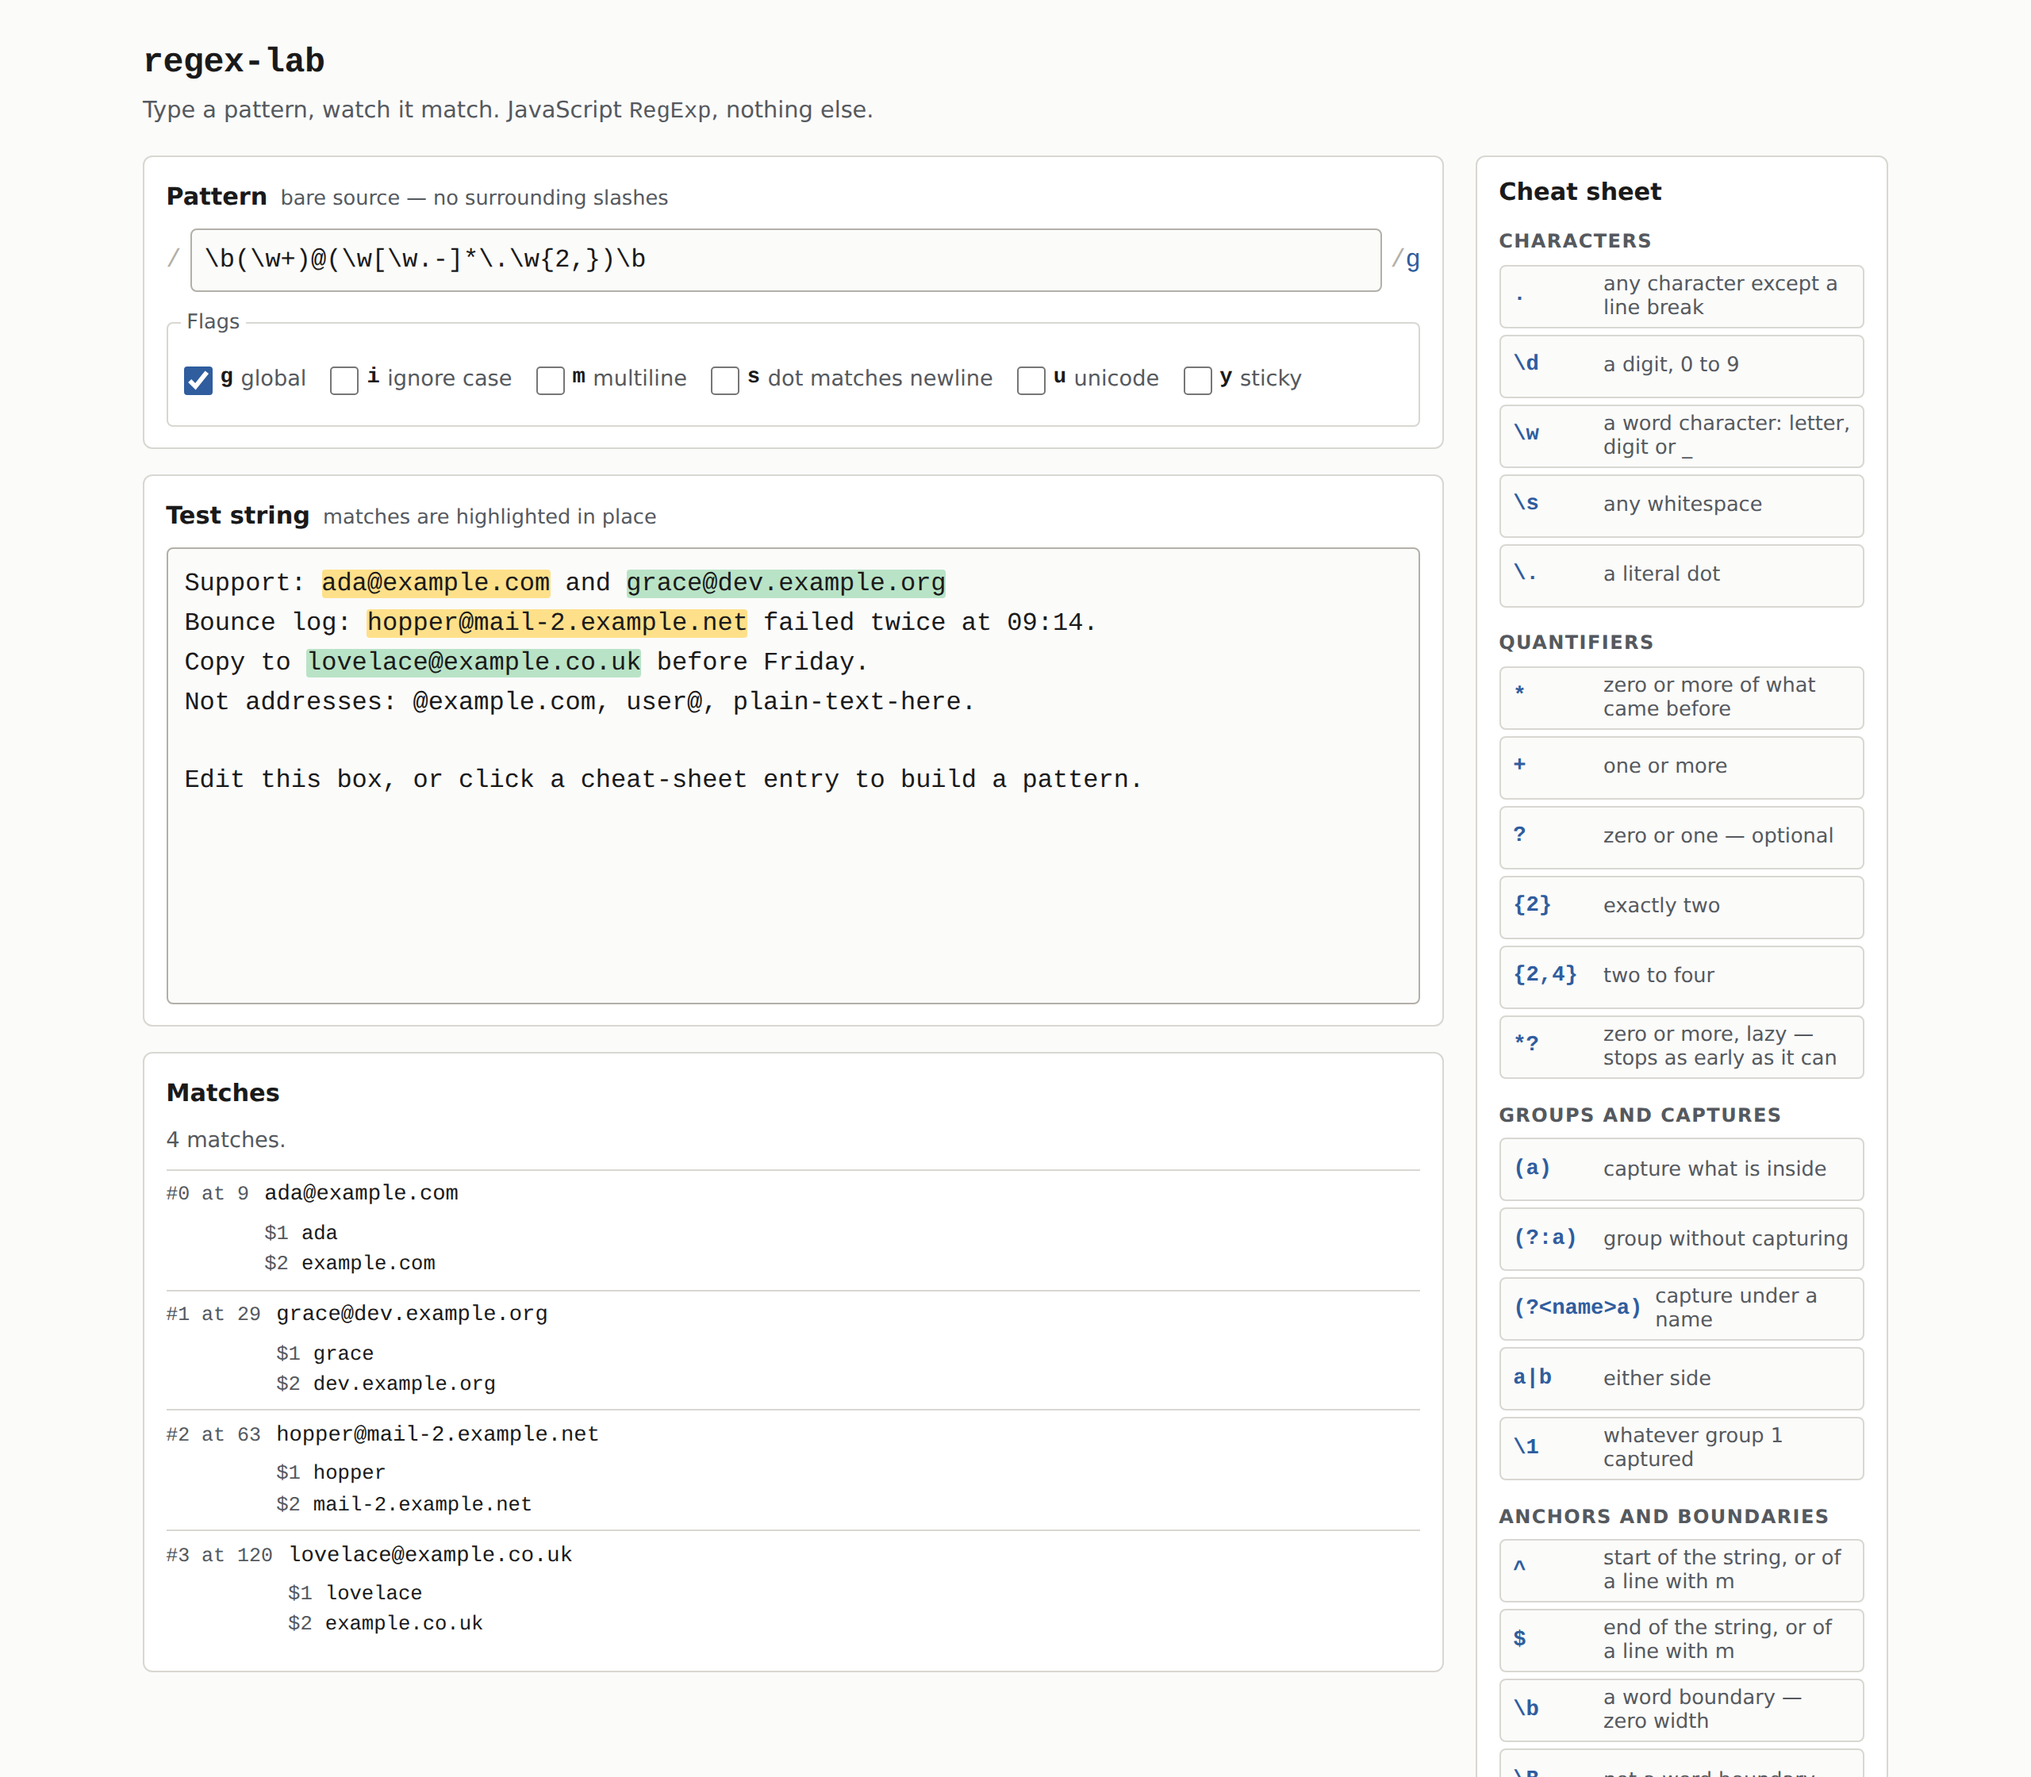
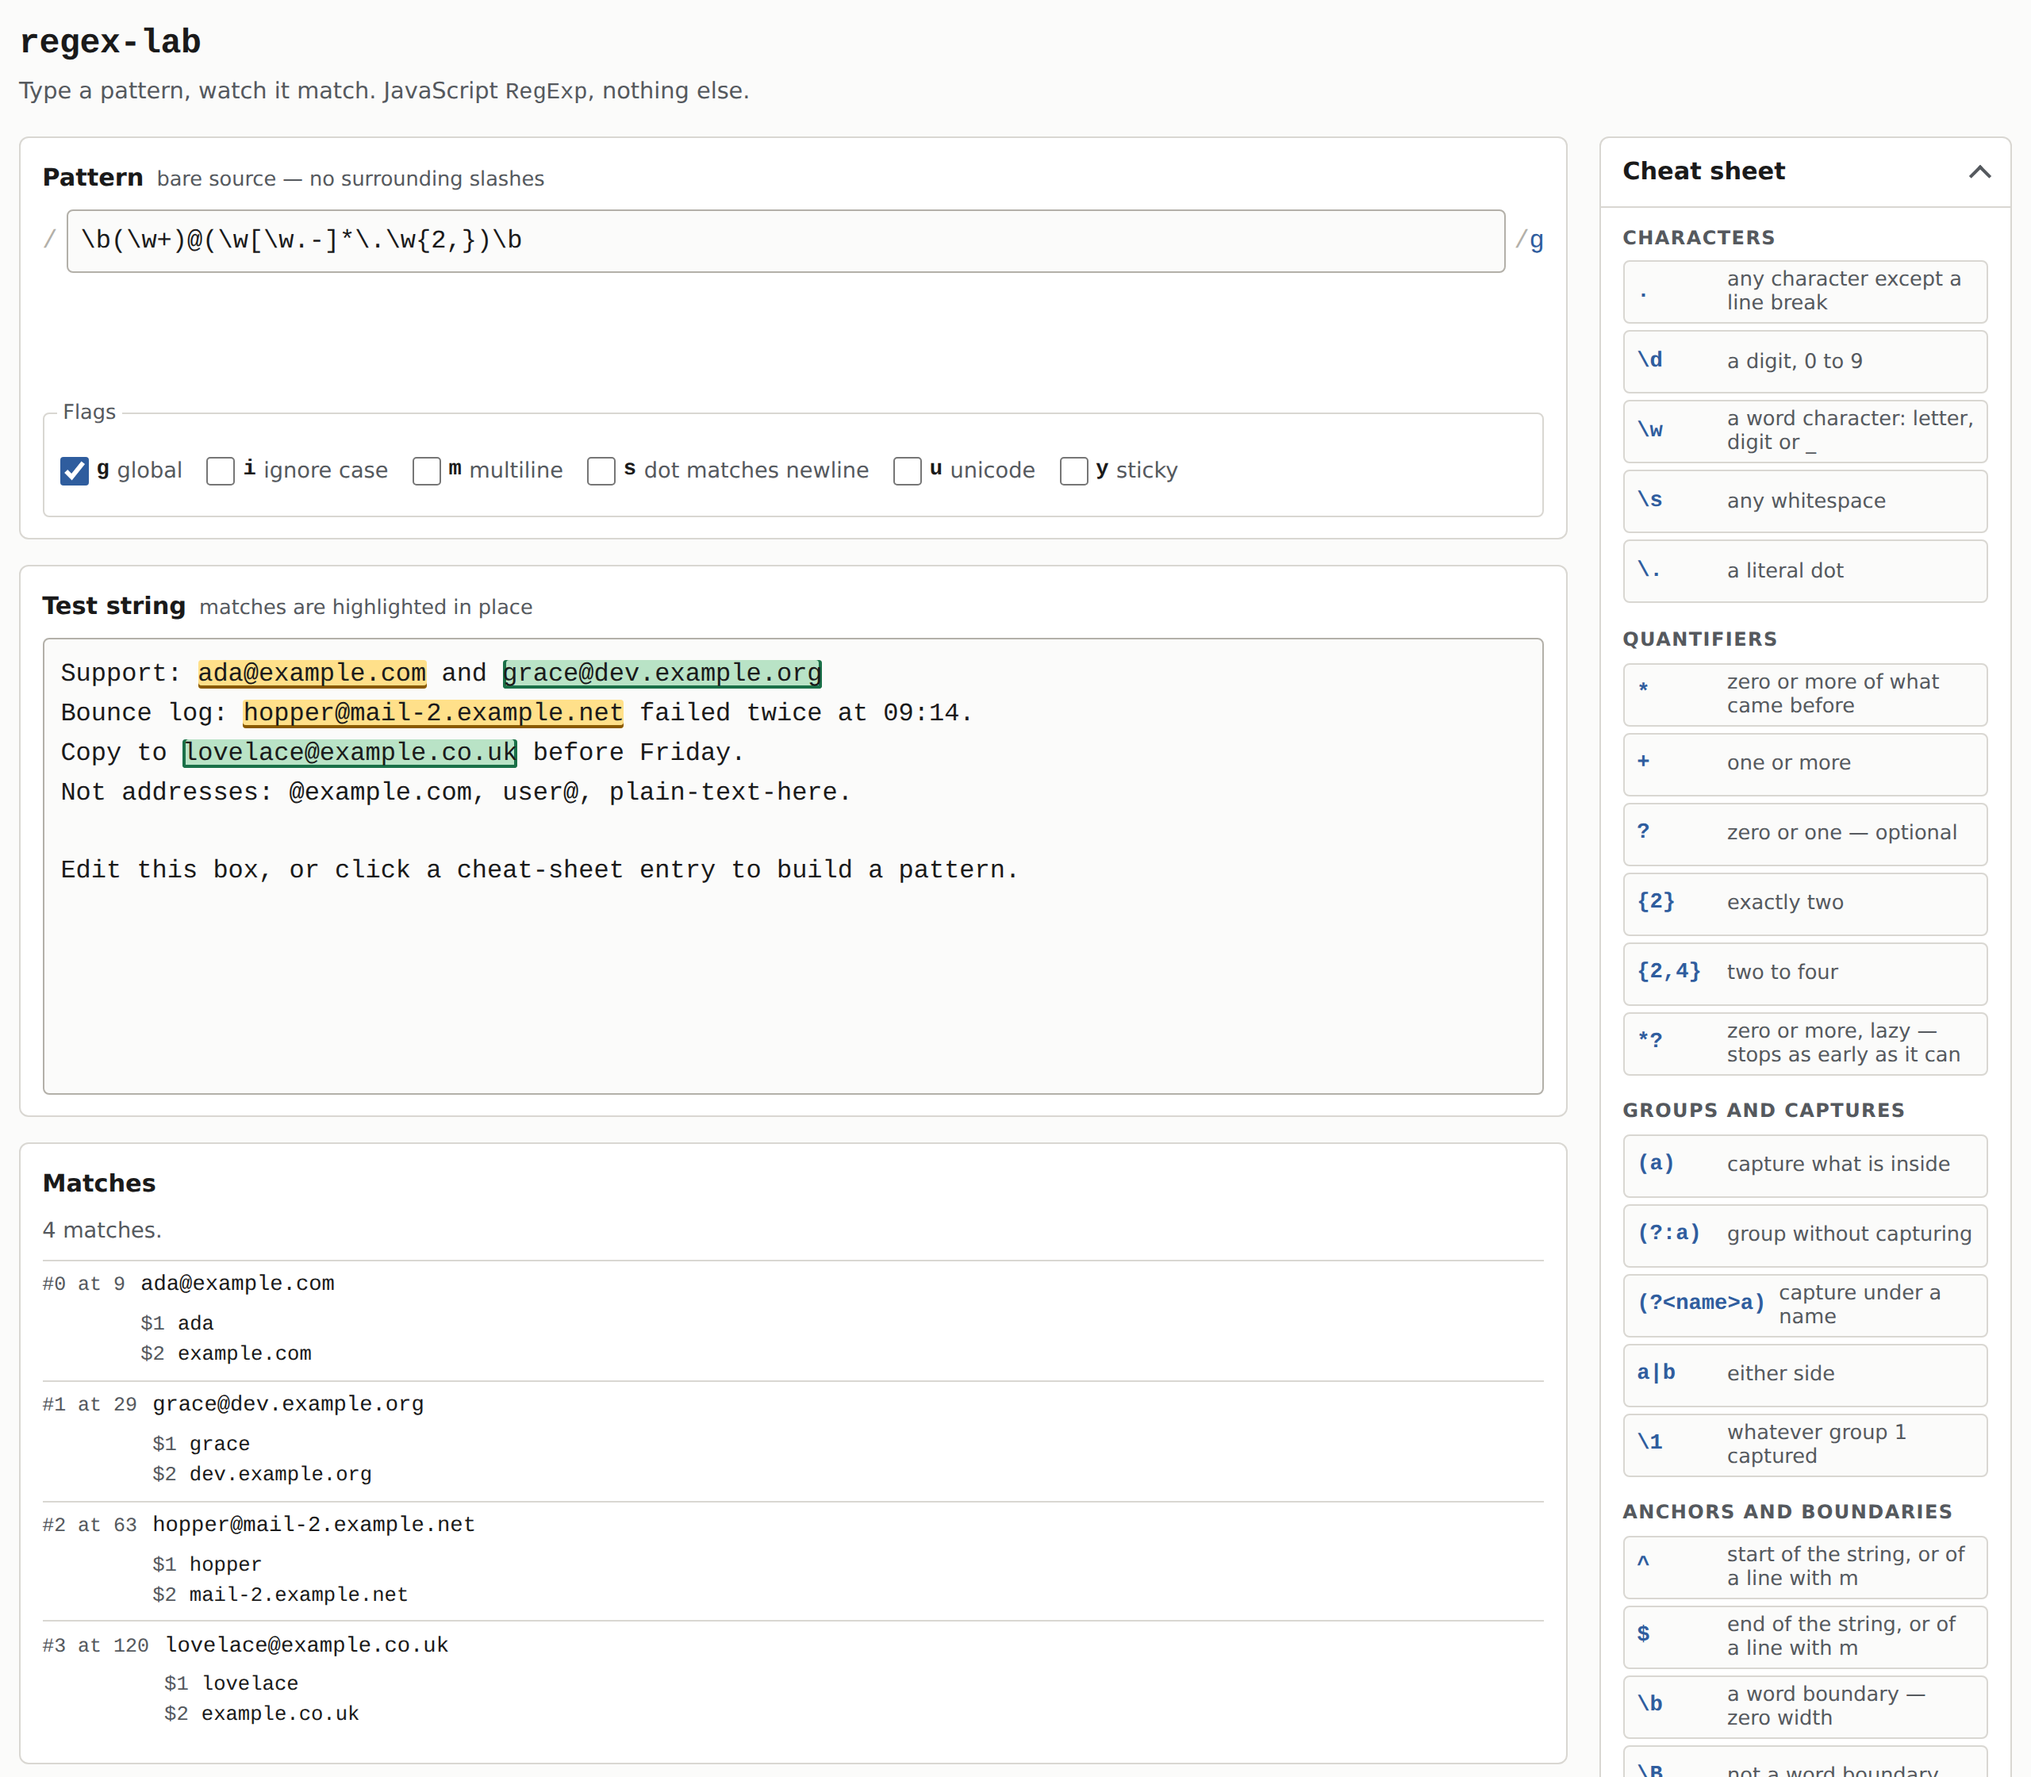
README: state all four limits, drop the caption STYLE.md has no slot for
It said 'Two limits are enforced and stated in the count line'. The count
line states three — the 1,000-match cap, the first-100-rows list and the
50,000-character refusal — and a fourth was disclosed nowhere: match text
and capture-group values are cut at 200 characters with an ellipsis (a
500-character match renders 201 characters), while the README promised the
list 'gives each match its offset, its text'. All four are now stated, each
one re-measured against the shipped build. The list also now mentions the
mark boundary rules and the idle empty-pattern state, and the italic caption
between the screenshot and the demo line — which the STYLE.md template has
no slot for — is gone. screenshot.png is re-captured from this build.

diff --git a/README.md b/README.md
@@ -4,13 +4,13 @@ A live tester for JavaScript regular expressions: type a pattern, watch the matc
 
 ![screenshot](screenshot.png)
 
-*The screenshot shows the tester at desktop width: an email pattern with the `g` flag in the pattern field, a block of test text below it with four matches highlighted in alternating tints, the match list underneath showing each match with its two capture groups, and the cheat-sheet sidebar on the right.*
-
 **[Live demo](https://yinggarykairui.github.io/regex-lab/)**
 
 ## What it does
 
-Enter a pattern and toggle the `g i m s u y` flags, and every match in the test string is highlighted in place on each keystroke — alternating tints so neighbouring matches stay distinct, and a thin caret where a match is zero-length. Under the text, a list gives each match its offset, its text, and its capture groups, numbered and named. The sidebar is a cheat sheet of thirty-five regex constructs with plain-language glosses; click any entry to insert that token at the caret in the pattern field, or to toggle that flag. An invalid pattern gets a readable error line instead of a thrown exception, and a pattern that backtracks forever is killed after 400 ms with a message saying so, because the matching runs in a Web Worker the page can terminate. It handles JavaScript's `RegExp` and only that — no PCRE, no Python, no replace preview, and nothing is saved between visits. Two limits are enforced and stated in the count line: matching stops after 1,000 matches, and a test string of 50,000 characters or more is not run at all.
+Enter a pattern and toggle the `g i m s u y` flags, and every match in the test string is highlighted in place on each keystroke — neighbouring matches alternate between two tints and each mark carries a rule along its edge, so two matches never read as one, and a zero-length match shows as a thin caret. Under the text, a list gives each match its offset, its matched text and its capture groups, numbered and named. A cheat sheet of thirty-five regex constructs with plain-language glosses sits beside the tester when the window is wide enough that a sidebar pays for itself and folds away under the match list when it is not; click any entry to insert that token at the caret in the pattern field, or to toggle that flag. An invalid pattern gets a readable error line under the field instead of a thrown exception, and a pattern that backtracks forever is killed after 400 ms and says so in that same line, because the matching runs in a Web Worker the page can terminate. It handles JavaScript's `RegExp` and only that — no PCRE, no Python, no replace preview, and nothing is saved between visits.
+
+Three limits are enforced and stated in the count line: matching stops after 1,000 matches, the list renders the first 100 of them, and a test string of 50,000 characters or more is not run at all. A fourth is not stated there: in the list, matched text and capture-group values longer than 200 characters are cut short with an ellipsis. Clearing the pattern field is treated as an idle state rather than a pattern that matches everywhere.
 
 ## How to run
 
